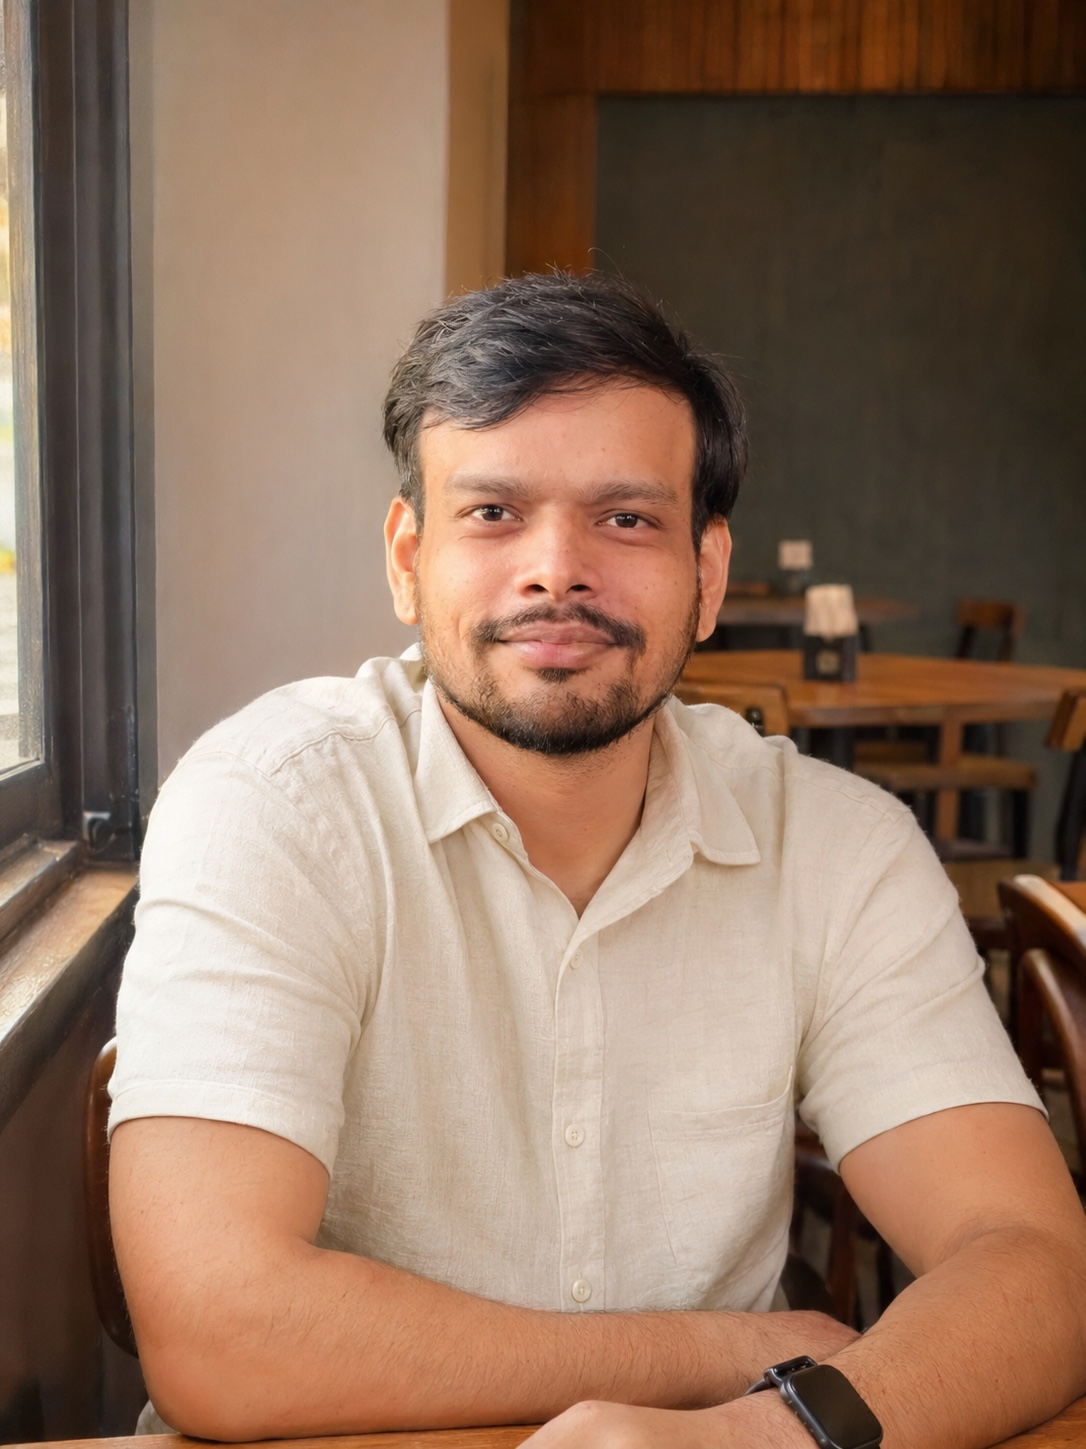
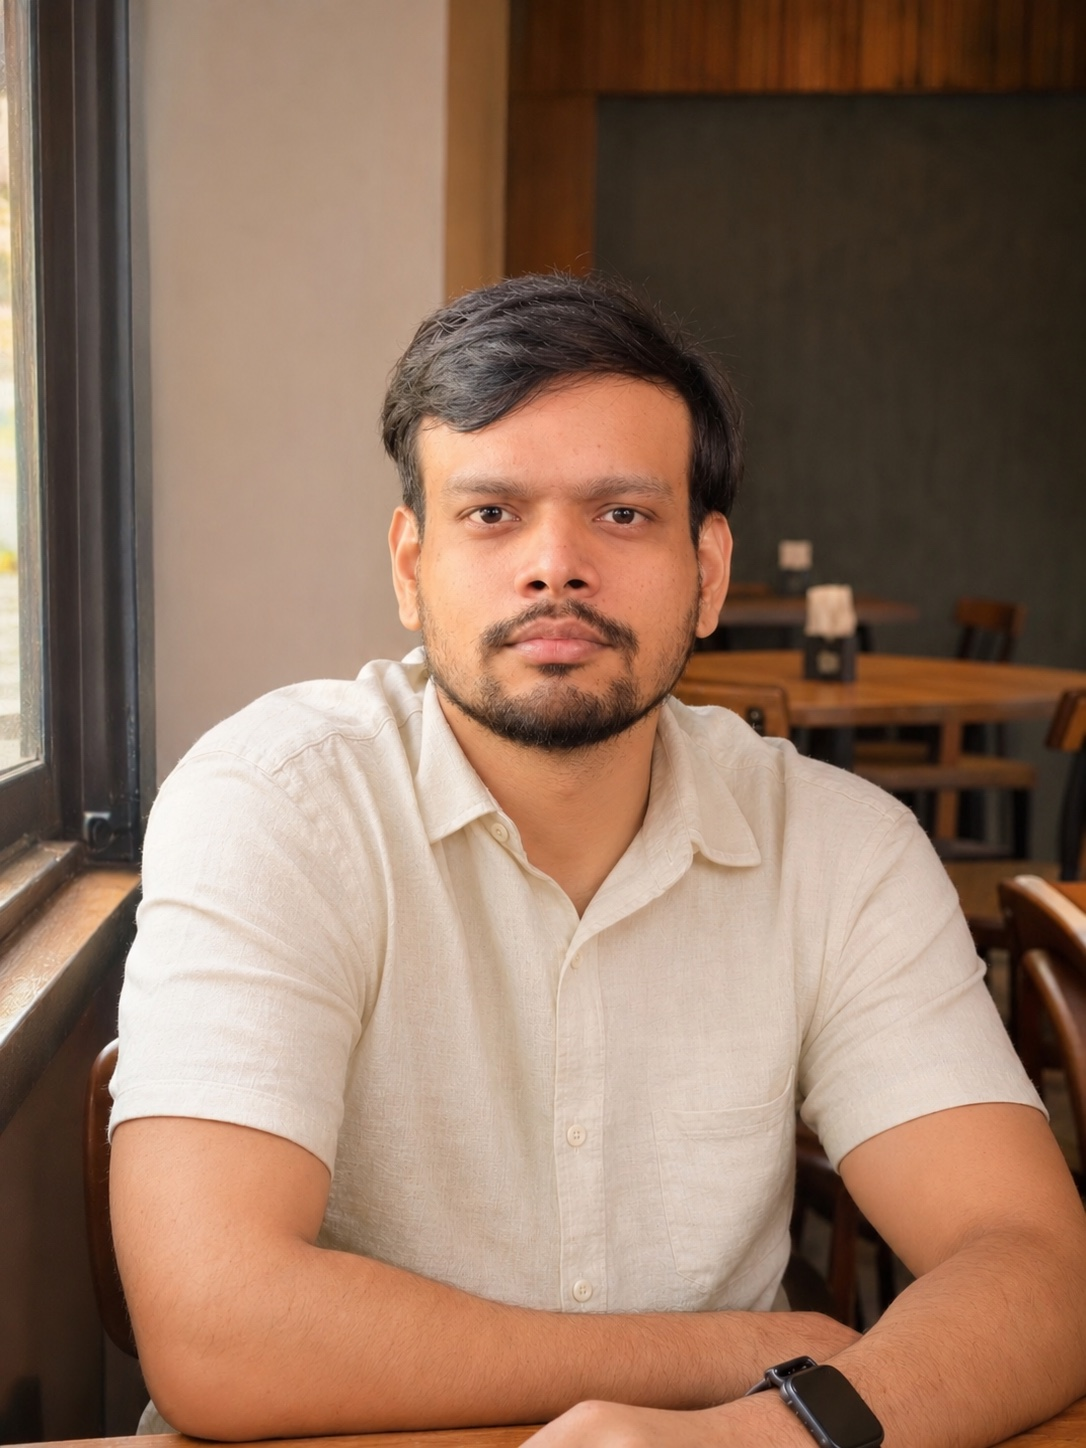
Refine Date Me portrait likeness using original reference

diff --git a/date-me/index.html b/date-me/index.html
@@ -1478,15 +1478,15 @@
         ],
         "photos": [
           {
-            "url": "/date-me/cafe-portrait.jpg",
+            "url": "/date-me/cafe-portrait.jpg?v=refined",
             "alt": "Portrait of Sanjit seated by a café window"
           },
           {
-            "url": "/date-me/mountain-lake-portrait.jpg",
+            "url": "/date-me/mountain-lake-portrait.jpg?v=refined",
             "alt": "Portrait of Sanjit in front of a mountain lake"
           },
           {
-            "url": "/date-me/delhi-street-portrait.jpg",
+            "url": "/date-me/delhi-street-portrait.jpg?v=refined",
             "alt": "Full-length portrait of Sanjit by a street lamp"
           }
         ],
